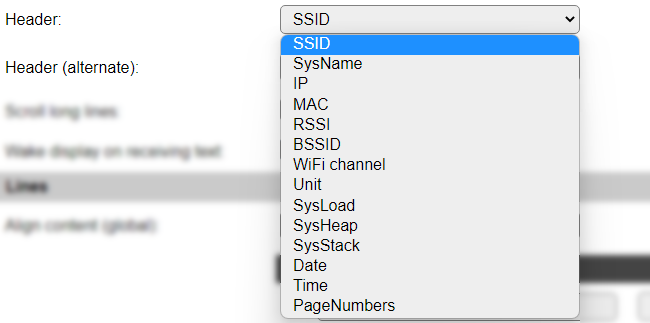
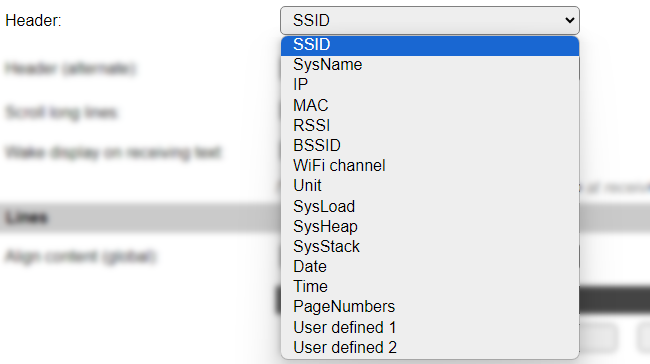
[P036] Updates for documentation

diff --git a/docs/source/Plugin/P036.rst b/docs/source/Plugin/P036.rst
@@ -66,16 +66,20 @@ Device Settings
 .. image:: P036_ScrollOptions.png
 
 * **Scroll**: Switching between pages can be "instant", "scrolling" or a "ticker" band. Please note that scrolling will need more resources of the ESP, which can have an effect on other active tasks of the node.
+
 For the ``Ticker`` there are some restrictions:
+
 * Depending on the build used (NORMAL and CUSTOM) this option is available
 * only one line is displaying the ticker string
 * all line contents are parsed and combined to this ticker string, the parsing happens only at each ticker start (using the setting ``Interval``)
 * the optional split token ``<|>`` is replaced by three spaces
-* the gaps between the ticker items must be set by the ``line content`` (tailing spaces)
+* the gaps between the ticker items must be set by the ``line content`` (trailing spaces)
 * the starting alignment (left, center, right) depends on the setting ``Align content (global)``
 * the font is taken from the setting ``Modify font`` of the first line, the ``Alignment`` settings of the lines are ignored (always right aligned)
-* the ticker speed depends on the length of the ticker string and the setting ``Interval`` setting
+* the ticker speed depends on the length of the ticker string and the task ``Interval`` setting
 * the footer is automatically hidden
+
+.. spacer
 
 * **GPIO <- Display button**: Setting up a ``Display Button``, allows to configure a Display Timeout and wake the display on demand, either by a button, or by using some presence detection.
 
@@ -108,7 +112,7 @@ Content
 
 .. image:: P036_HeaderOptions.png
 
-* **Header** / **Header (alternate)**: The plugin allows for a header line, which may show some user selectable information. When using a different setting for **Header (alternate)**, the header will be updated halfway of the Interval time.
+* **Header** / **Header (alternate)**: The plugin allows for a header line, which may show some user selectable information. When using a different setting for **Header (alternate)**, the header will be updated halfway of the Interval time. The **User defined 1/2** options are not available in all builds. If they are available, their content can be set using the ``oledframedcmd,userDef1,'<user Defined Header1>'`` and ``oledframedcmd,userDef2,'<user Defined Header2>'`` commands (by default they are empty), see the command reference below for details.
 
 * **Scroll long lines**: When checked, lines that won't fit on the display will be scrolled to be completely shown.
 
